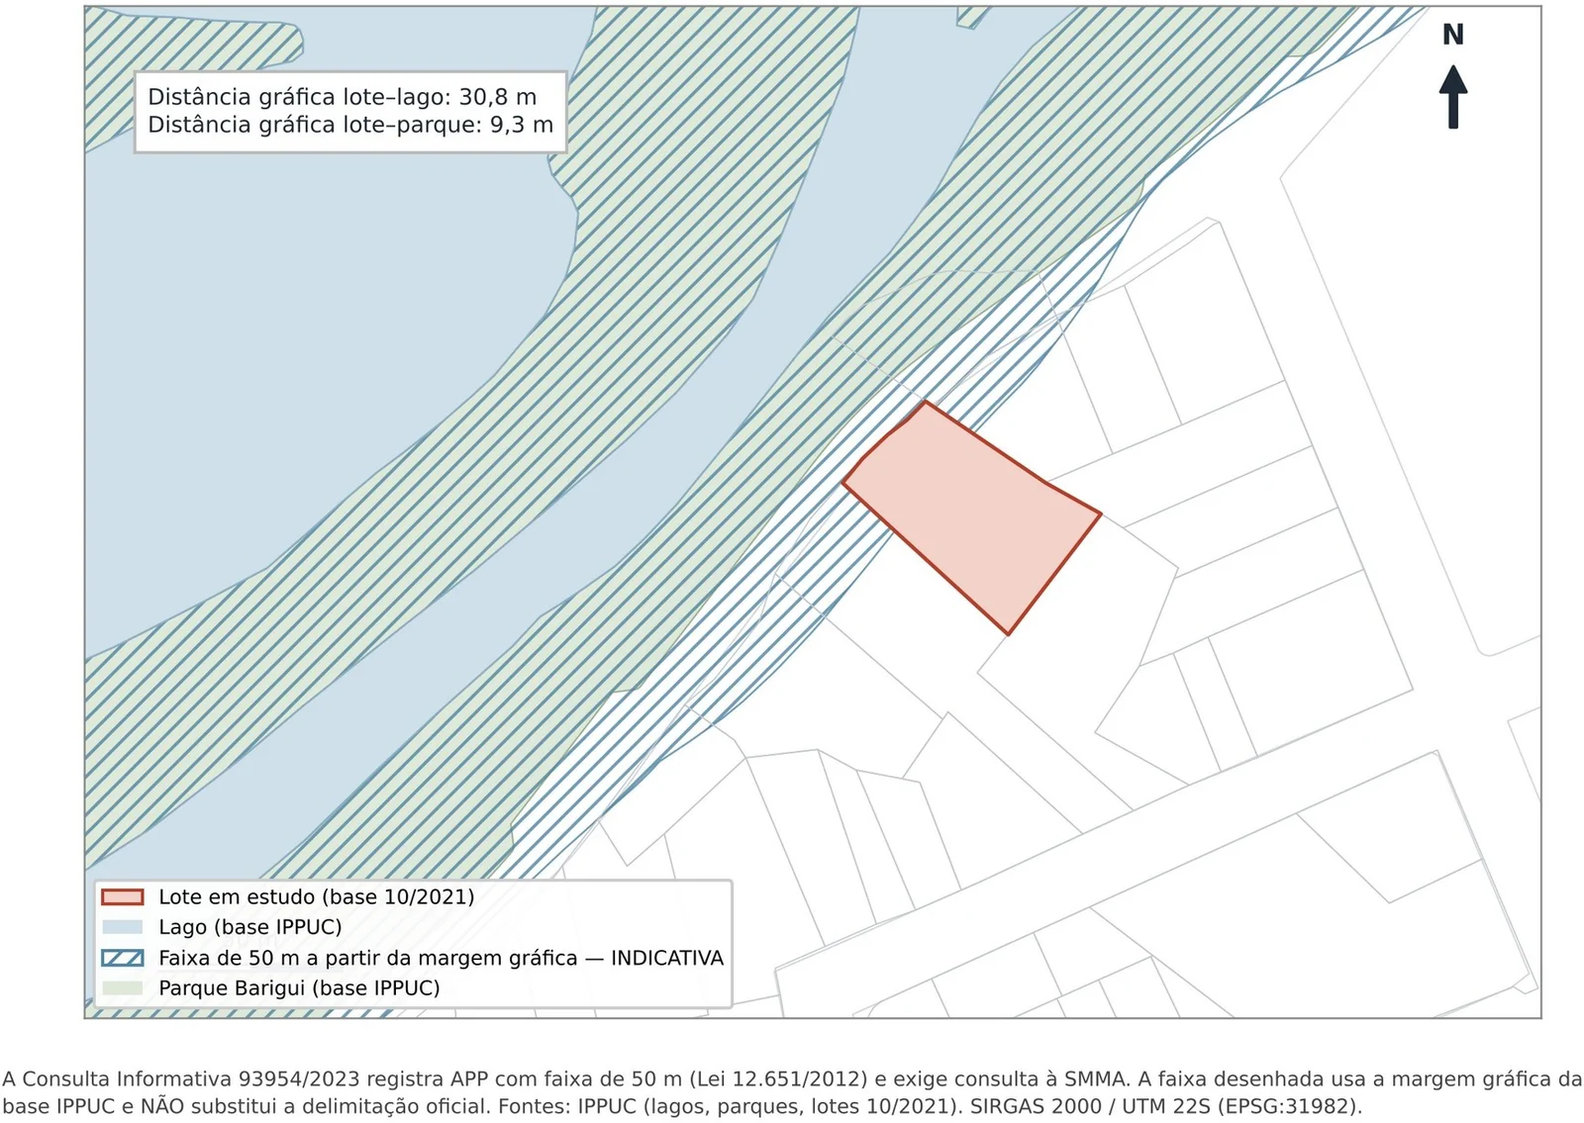
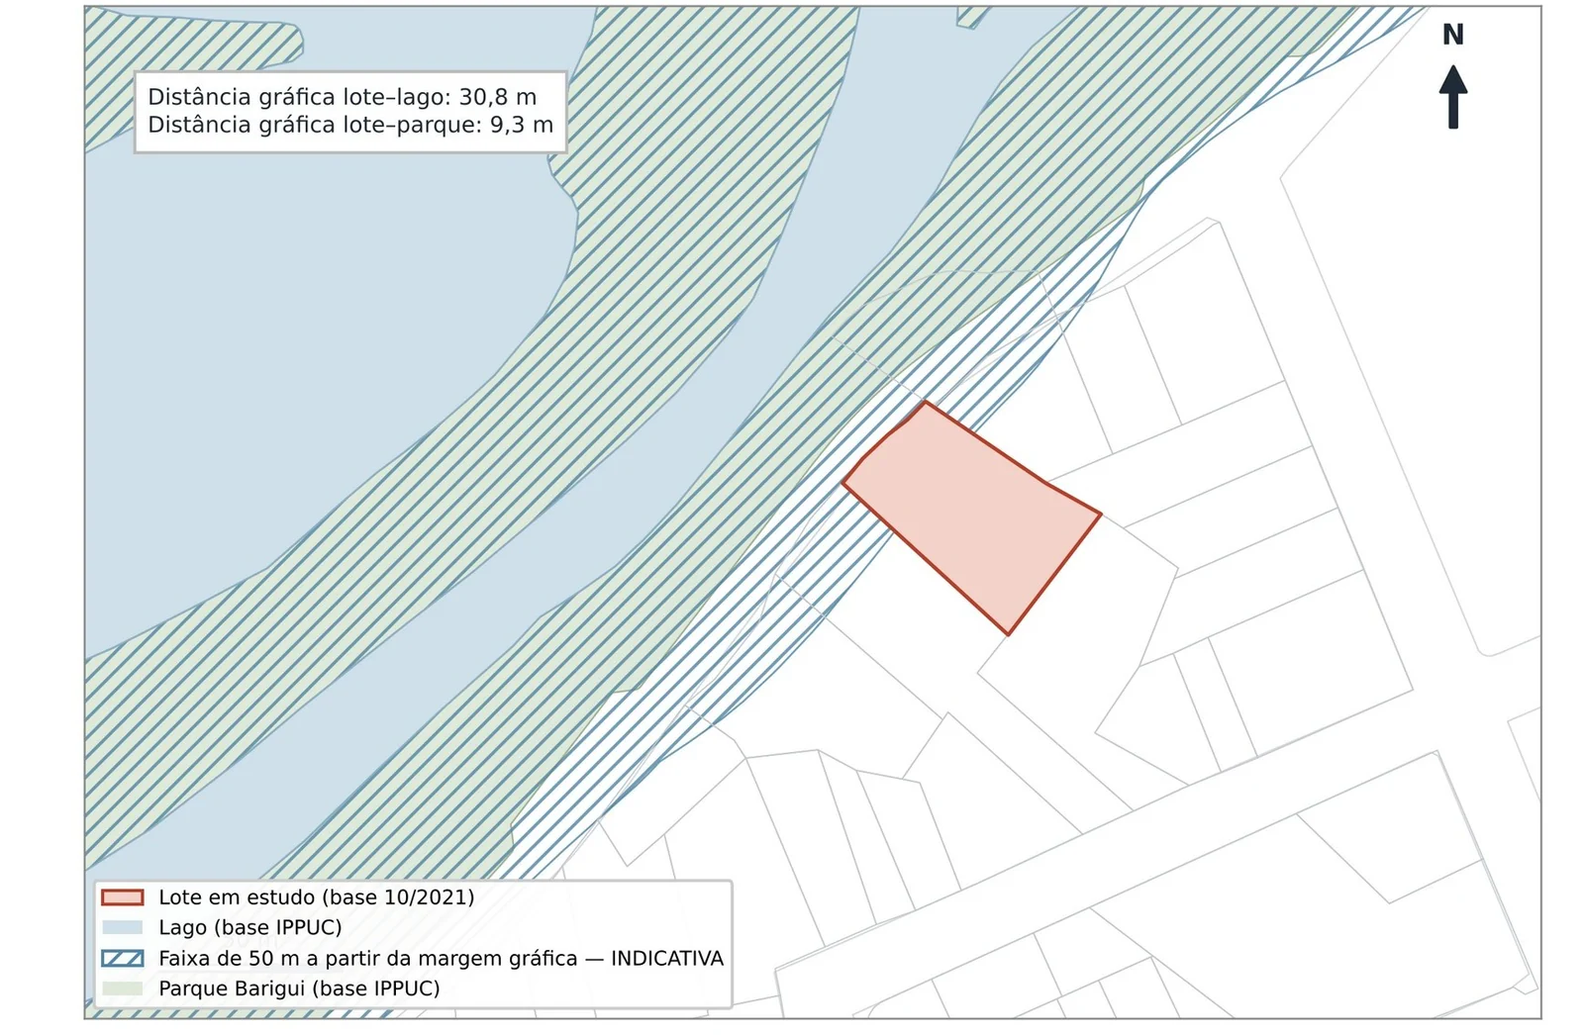
Recorta as figuras da galeria do Bigorrilho como no relatório

diff --git a/en/projects/bigorrilho/index.html b/en/projects/bigorrilho/index.html
@@ -24,8 +24,8 @@
 <link rel="apple-touch-icon" href="../../../apple-touch-icon.png">
 <link rel="preload" href="../../../fonts/ibm-plex-sans-400-normal-latin.woff2" as="font" type="font/woff2" crossorigin><link rel="preload" href="../../../fonts/source-serif-4-500-650-normal-latin.woff2" as="font" type="font/woff2" crossorigin>
 <link rel="stylesheet" href="../../../fonts/fonts.css?v=b6746c271c">
-<link rel="stylesheet" href="../../../css/estilo.css?v=b86e0abcba">
-<script src="../../../js/site.js?v=65b9d81dab" defer></script>
+<link rel="stylesheet" href="../../../css/estilo.css?v=d11fa2a440">
+<script src="../../../js/site.js?v=058e7f3ae5" defer></script>
 
 </head>
 <body id="topo" class="pg-projeto">
@@ -67,7 +67,7 @@
 <section class="secao" id="maps" aria-labelledby="maps-t"><div class="wrap">
 <h2 id="maps-t">Maps &amp; charts</h2>
 <p class="secao__intro">Click the image to zoom in; drag or scroll to move&nbsp;around.</p>
-<div class="galeria"><figure class="fig"><a class="fig__link" href="../../../img/projetos/bigorrilho/reconstrucao-cartografica.webp" data-galeria="projeto" data-w="1770" data-h="1584"><img src="../../../img/projetos/bigorrilho/reconstrucao-cartografica-960.webp" srcset="../../../img/projetos/bigorrilho/reconstrucao-cartografica-960.webp 960w, ../../../img/projetos/bigorrilho/reconstrucao-cartografica-1600.webp 1600w, ../../../img/projetos/bigorrilho/reconstrucao-cartografica.webp 1770w" sizes="(min-width: 900px) 560px, 100vw" width="1770" height="1584" alt="Figure 7 — Graphic reconstruction of the 1983 perimeter and of lot C5+C6 on the 2021 cadastral base; map text in Portuguese" loading="lazy" decoding="async"><span class="fig__zoom"><svg class="ico" viewBox="0 0 24 24" aria-hidden="true" focusable="false"><circle cx="10.5" cy="10.5" r="6" fill="none" stroke="currentColor" stroke-width="1.8"/><path d="m15 15 5 5M8 10.5h5M10.5 8v5" fill="none" stroke="currentColor" stroke-width="1.8" stroke-linecap="round"/></svg><span class="vh">Enlarge image</span></span></a><figcaption>Figure 7 — Graphic reconstruction of the 1983 perimeter and of lot C5+C6 on the 2021 cadastral base; map text in Portuguese <span class="fig__credito">IPPUC (2021); Curitiba City Hall, 1983 cadastral copy</span></figcaption></figure><figure class="fig"><a class="fig__link" href="../../../img/projetos/bigorrilho/proximidade-parque.webp" data-galeria="projeto" data-w="1736" data-h="1232"><img src="../../../img/projetos/bigorrilho/proximidade-parque-960.webp" srcset="../../../img/projetos/bigorrilho/proximidade-parque-960.webp 960w, ../../../img/projetos/bigorrilho/proximidade-parque-1600.webp 1600w, ../../../img/projetos/bigorrilho/proximidade-parque.webp 1736w" sizes="(min-width: 900px) 560px, 100vw" width="1736" height="1232" alt="Figure 8 — The lot&#x27;s proximity to the lake and to Barigui Park, with an indicative 50 m strip; map text in Portuguese" loading="lazy" decoding="async"><span class="fig__zoom"><svg class="ico" viewBox="0 0 24 24" aria-hidden="true" focusable="false"><circle cx="10.5" cy="10.5" r="6" fill="none" stroke="currentColor" stroke-width="1.8"/><path d="m15 15 5 5M8 10.5h5M10.5 8v5" fill="none" stroke="currentColor" stroke-width="1.8" stroke-linecap="round"/></svg><span class="vh">Enlarge image</span></span></a><figcaption>Figure 8 — The lot&#x27;s proximity to the lake and to Barigui Park, with an indicative 50 m strip; map text in Portuguese <span class="fig__credito">IPPUC (2021)</span></figcaption></figure></div>
+<div class="galeria"><figure class="fig"><a class="fig__link" href="../../../img/projetos/bigorrilho/reconstrucao-cartografica.webp" data-galeria="projeto" data-w="1596" data-h="1495"><img src="../../../img/projetos/bigorrilho/reconstrucao-cartografica-960.webp" srcset="../../../img/projetos/bigorrilho/reconstrucao-cartografica-960.webp 960w, ../../../img/projetos/bigorrilho/reconstrucao-cartografica.webp 1596w" sizes="(min-width: 900px) 560px, 100vw" width="1596" height="1495" alt="Figure 7 — Graphic reconstruction of the 1983 perimeter and of lot C5+C6 on the 2021 cadastral base; map text in Portuguese" loading="lazy" decoding="async"><span class="fig__zoom"><svg class="ico" viewBox="0 0 24 24" aria-hidden="true" focusable="false"><circle cx="10.5" cy="10.5" r="6" fill="none" stroke="currentColor" stroke-width="1.8"/><path d="m15 15 5 5M8 10.5h5M10.5 8v5" fill="none" stroke="currentColor" stroke-width="1.8" stroke-linecap="round"/></svg><span class="vh">Enlarge image</span></span></a><figcaption>Figure 7 — Graphic reconstruction of the 1983 perimeter and of lot C5+C6 on the 2021 cadastral base; map text in Portuguese <span class="fig__credito">IPPUC (2021); Curitiba City Hall, 1983 cadastral copy</span></figcaption></figure><figure class="fig"><a class="fig__link" href="../../../img/projetos/bigorrilho/proximidade-parque.webp" data-galeria="projeto" data-w="1736" data-h="1135"><img src="../../../img/projetos/bigorrilho/proximidade-parque-960.webp" srcset="../../../img/projetos/bigorrilho/proximidade-parque-960.webp 960w, ../../../img/projetos/bigorrilho/proximidade-parque-1600.webp 1600w, ../../../img/projetos/bigorrilho/proximidade-parque.webp 1736w" sizes="(min-width: 900px) 560px, 100vw" width="1736" height="1135" alt="Figure 8 — The lot&#x27;s proximity to the lake and to Barigui Park, with an indicative 50 m strip; map text in Portuguese" loading="lazy" decoding="async"><span class="fig__zoom"><svg class="ico" viewBox="0 0 24 24" aria-hidden="true" focusable="false"><circle cx="10.5" cy="10.5" r="6" fill="none" stroke="currentColor" stroke-width="1.8"/><path d="m15 15 5 5M8 10.5h5M10.5 8v5" fill="none" stroke="currentColor" stroke-width="1.8" stroke-linecap="round"/></svg><span class="vh">Enlarge image</span></span></a><figcaption>Figure 8 — The lot&#x27;s proximity to the lake and to Barigui Park, with an indicative 50 m strip; map text in Portuguese <span class="fig__credito">IPPUC (2021)</span></figcaption></figure></div>
 <p class="galeria__nota">Explore additional maps, charts, and results in the full report available at the end of this&nbsp;page.</p>
 </div></section>
 <section class="secao secao--clara" id="materials" aria-labelledby="materials-t"><div class="wrap"><h2 id="materials-t">Full materials</h2><div class="mats"><div class="mat"><h3><svg class="ico" viewBox="0 0 24 24" aria-hidden="true" focusable="false"><path d="M6.5 3.5h7l4 4v13h-11z" fill="none" stroke="currentColor" stroke-width="1.6" stroke-linejoin="round"/><path d="M13.5 3.5v4h4M9 13h6M9 16.5h6" fill="none" stroke="currentColor" stroke-width="1.6"/></svg>Full report (PDF, Portuguese)</h3><p>Document in&nbsp;Portuguese.</p><a class="btn btn--pri" href="../../../pdf/analise-historico-cadastral-bigorrilho.pdf" target="_blank" rel="noopener"><span>Full report (PDF, Portuguese)</span><span class="vh"> (Opens in a new tab)</span></a></div><div class="mat"><h3><svg class="ico" viewBox="0 0 24 24" aria-hidden="true" focusable="false"><path d="M12 3.5 20 8l-8 4.5L4 8z M4 12l8 4.5 8-4.5M4 16l8 4.5 8-4.5" fill="none" stroke="currentColor" stroke-width="1.6" stroke-linejoin="round"/></svg>Code and data</h3><p>The study draws on cadastral documents for a private property. To protect privacy, the evidence matrix, the GeoPackage with the historical geometry and the scripts are not published; the full report sets out the calculations and the&nbsp;method.</p></div></div></div></section>

diff --git a/projetos/bigorrilho/index.html b/projetos/bigorrilho/index.html
@@ -24,8 +24,8 @@
 <link rel="apple-touch-icon" href="../../apple-touch-icon.png">
 <link rel="preload" href="../../fonts/ibm-plex-sans-400-normal-latin.woff2" as="font" type="font/woff2" crossorigin><link rel="preload" href="../../fonts/source-serif-4-500-650-normal-latin.woff2" as="font" type="font/woff2" crossorigin>
 <link rel="stylesheet" href="../../fonts/fonts.css?v=b6746c271c">
-<link rel="stylesheet" href="../../css/estilo.css?v=b86e0abcba">
-<script src="../../js/site.js?v=65b9d81dab" defer></script>
+<link rel="stylesheet" href="../../css/estilo.css?v=d11fa2a440">
+<script src="../../js/site.js?v=058e7f3ae5" defer></script>
 
 </head>
 <body id="topo" class="pg-projeto">
@@ -67,7 +67,7 @@
 <section class="secao" id="mapas" aria-labelledby="mapas-t"><div class="wrap">
 <h2 id="mapas-t">Mapas e gráficos</h2>
 <p class="secao__intro">Clique na imagem para aproximar; arraste ou role para&nbsp;navegar.</p>
-<div class="galeria"><figure class="fig"><a class="fig__link" href="../../img/projetos/bigorrilho/reconstrucao-cartografica.webp" data-galeria="projeto" data-w="1770" data-h="1584"><img src="../../img/projetos/bigorrilho/reconstrucao-cartografica-960.webp" srcset="../../img/projetos/bigorrilho/reconstrucao-cartografica-960.webp 960w, ../../img/projetos/bigorrilho/reconstrucao-cartografica-1600.webp 1600w, ../../img/projetos/bigorrilho/reconstrucao-cartografica.webp 1770w" sizes="(min-width: 900px) 560px, 100vw" width="1770" height="1584" alt="Figura 7 — Reconstrução gráfica do perímetro de 1983 e do lote C5+C6 sobre a base cadastral de 2021" loading="lazy" decoding="async"><span class="fig__zoom"><svg class="ico" viewBox="0 0 24 24" aria-hidden="true" focusable="false"><circle cx="10.5" cy="10.5" r="6" fill="none" stroke="currentColor" stroke-width="1.8"/><path d="m15 15 5 5M8 10.5h5M10.5 8v5" fill="none" stroke="currentColor" stroke-width="1.8" stroke-linecap="round"/></svg><span class="vh">Ampliar imagem</span></span></a><figcaption>Figura 7 — Reconstrução gráfica do perímetro de 1983 e do lote C5+C6 sobre a base cadastral de 2021 <span class="fig__credito">IPPUC (2021); PMC, cópia cadastral de 1983</span></figcaption></figure><figure class="fig"><a class="fig__link" href="../../img/projetos/bigorrilho/proximidade-parque.webp" data-galeria="projeto" data-w="1736" data-h="1232"><img src="../../img/projetos/bigorrilho/proximidade-parque-960.webp" srcset="../../img/projetos/bigorrilho/proximidade-parque-960.webp 960w, ../../img/projetos/bigorrilho/proximidade-parque-1600.webp 1600w, ../../img/projetos/bigorrilho/proximidade-parque.webp 1736w" sizes="(min-width: 900px) 560px, 100vw" width="1736" height="1232" alt="Figura 8 — Proximidade do lote ao lago e ao Parque Barigui, com faixa indicativa de 50 m" loading="lazy" decoding="async"><span class="fig__zoom"><svg class="ico" viewBox="0 0 24 24" aria-hidden="true" focusable="false"><circle cx="10.5" cy="10.5" r="6" fill="none" stroke="currentColor" stroke-width="1.8"/><path d="m15 15 5 5M8 10.5h5M10.5 8v5" fill="none" stroke="currentColor" stroke-width="1.8" stroke-linecap="round"/></svg><span class="vh">Ampliar imagem</span></span></a><figcaption>Figura 8 — Proximidade do lote ao lago e ao Parque Barigui, com faixa indicativa de 50 m <span class="fig__credito">IPPUC (2021)</span></figcaption></figure></div>
+<div class="galeria"><figure class="fig"><a class="fig__link" href="../../img/projetos/bigorrilho/reconstrucao-cartografica.webp" data-galeria="projeto" data-w="1596" data-h="1495"><img src="../../img/projetos/bigorrilho/reconstrucao-cartografica-960.webp" srcset="../../img/projetos/bigorrilho/reconstrucao-cartografica-960.webp 960w, ../../img/projetos/bigorrilho/reconstrucao-cartografica.webp 1596w" sizes="(min-width: 900px) 560px, 100vw" width="1596" height="1495" alt="Figura 7 — Reconstrução gráfica do perímetro de 1983 e do lote C5+C6 sobre a base cadastral de 2021" loading="lazy" decoding="async"><span class="fig__zoom"><svg class="ico" viewBox="0 0 24 24" aria-hidden="true" focusable="false"><circle cx="10.5" cy="10.5" r="6" fill="none" stroke="currentColor" stroke-width="1.8"/><path d="m15 15 5 5M8 10.5h5M10.5 8v5" fill="none" stroke="currentColor" stroke-width="1.8" stroke-linecap="round"/></svg><span class="vh">Ampliar imagem</span></span></a><figcaption>Figura 7 — Reconstrução gráfica do perímetro de 1983 e do lote C5+C6 sobre a base cadastral de 2021 <span class="fig__credito">IPPUC (2021); PMC, cópia cadastral de 1983</span></figcaption></figure><figure class="fig"><a class="fig__link" href="../../img/projetos/bigorrilho/proximidade-parque.webp" data-galeria="projeto" data-w="1736" data-h="1135"><img src="../../img/projetos/bigorrilho/proximidade-parque-960.webp" srcset="../../img/projetos/bigorrilho/proximidade-parque-960.webp 960w, ../../img/projetos/bigorrilho/proximidade-parque-1600.webp 1600w, ../../img/projetos/bigorrilho/proximidade-parque.webp 1736w" sizes="(min-width: 900px) 560px, 100vw" width="1736" height="1135" alt="Figura 8 — Proximidade do lote ao lago e ao Parque Barigui, com faixa indicativa de 50 m" loading="lazy" decoding="async"><span class="fig__zoom"><svg class="ico" viewBox="0 0 24 24" aria-hidden="true" focusable="false"><circle cx="10.5" cy="10.5" r="6" fill="none" stroke="currentColor" stroke-width="1.8"/><path d="m15 15 5 5M8 10.5h5M10.5 8v5" fill="none" stroke="currentColor" stroke-width="1.8" stroke-linecap="round"/></svg><span class="vh">Ampliar imagem</span></span></a><figcaption>Figura 8 — Proximidade do lote ao lago e ao Parque Barigui, com faixa indicativa de 50 m <span class="fig__credito">IPPUC (2021)</span></figcaption></figure></div>
 <p class="galeria__nota">Consulte os demais mapas, gráficos e resultados no relatório completo disponível ao final desta&nbsp;página.</p>
 </div></section>
 <section class="secao secao--clara" id="materiais" aria-labelledby="materiais-t"><div class="wrap"><h2 id="materiais-t">Materiais completos</h2><div class="mats"><div class="mat"><h3><svg class="ico" viewBox="0 0 24 24" aria-hidden="true" focusable="false"><path d="M6.5 3.5h7l4 4v13h-11z" fill="none" stroke="currentColor" stroke-width="1.6" stroke-linejoin="round"/><path d="M13.5 3.5v4h4M9 13h6M9 16.5h6" fill="none" stroke="currentColor" stroke-width="1.6"/></svg>Relatório completo (PDF)</h3><p>Documento em&nbsp;português.</p><a class="btn btn--pri" href="../../pdf/analise-historico-cadastral-bigorrilho.pdf" target="_blank" rel="noopener"><span>Relatório completo (PDF)</span><span class="vh"> (Abre em nova aba)</span></a></div><div class="mat"><h3><svg class="ico" viewBox="0 0 24 24" aria-hidden="true" focusable="false"><path d="M12 3.5 20 8l-8 4.5L4 8z M4 12l8 4.5 8-4.5M4 16l8 4.5 8-4.5" fill="none" stroke="currentColor" stroke-width="1.6" stroke-linejoin="round"/></svg>Código e dados</h3><p>O estudo se baseia em documentos cadastrais de um imóvel particular. Para preservar a privacidade, a matriz de evidências, o GeoPackage com a geometria histórica e os scripts não são publicados; o relatório completo apresenta os cálculos e o&nbsp;método.</p></div></div></div></section>

diff --git a/index.html b/index.html
@@ -24,8 +24,8 @@
 <link rel="apple-touch-icon" href="./apple-touch-icon.png">
 <link rel="preload" href="./fonts/ibm-plex-sans-400-normal-latin.woff2" as="font" type="font/woff2" crossorigin><link rel="preload" href="./fonts/source-serif-4-500-650-normal-latin.woff2" as="font" type="font/woff2" crossorigin>
 <link rel="stylesheet" href="./fonts/fonts.css?v=b6746c271c">
-<link rel="stylesheet" href="./css/estilo.css?v=b86e0abcba">
-<script src="./js/site.js?v=65b9d81dab" defer></script>
+<link rel="stylesheet" href="./css/estilo.css?v=d11fa2a440">
+<script src="./js/site.js?v=058e7f3ae5" defer></script>
 <script type="application/ld+json">{"@context": "https://schema.org", "@type": "Person", "name": "Gabriel Barboza Lourenço", "jobTitle": "Analista de Dados Urbanos e Geoprocessamento", "url": "https://gabrielloubarboza.github.io/", "email": "mailto:gabrielb.lourenco3@gmail.com", "alumniOf": {"@type": "CollegeOrUniversity", "name": "Universidade Tecnológica Federal do Paraná"}, "sameAs": ["https://www.linkedin.com/in/gabriel-barboza-lourenco", "https://github.com/gabrielloubarboza", "https://www.instagram.com/gabbl.urb/", "http://lattes.cnpq.br/4614741892452502"]}</script>
 </head>
 <body id="topo" class="pg-inicio">

diff --git a/en/index.html b/en/index.html
@@ -24,8 +24,8 @@
 <link rel="apple-touch-icon" href="../apple-touch-icon.png">
 <link rel="preload" href="../fonts/ibm-plex-sans-400-normal-latin.woff2" as="font" type="font/woff2" crossorigin><link rel="preload" href="../fonts/source-serif-4-500-650-normal-latin.woff2" as="font" type="font/woff2" crossorigin>
 <link rel="stylesheet" href="../fonts/fonts.css?v=b6746c271c">
-<link rel="stylesheet" href="../css/estilo.css?v=b86e0abcba">
-<script src="../js/site.js?v=65b9d81dab" defer></script>
+<link rel="stylesheet" href="../css/estilo.css?v=d11fa2a440">
+<script src="../js/site.js?v=058e7f3ae5" defer></script>
 <script type="application/ld+json">{"@context": "https://schema.org", "@type": "Person", "name": "Gabriel Barboza Lourenço", "jobTitle": "Urban Data & Geospatial Analyst", "url": "https://gabrielloubarboza.github.io/en/", "email": "mailto:gabrielb.lourenco3@gmail.com", "alumniOf": {"@type": "CollegeOrUniversity", "name": "Universidade Tecnológica Federal do Paraná"}, "sameAs": ["https://www.linkedin.com/in/gabriel-barboza-lourenco", "https://github.com/gabrielloubarboza", "https://www.instagram.com/gabbl.urb/", "http://lattes.cnpq.br/4614741892452502"]}</script>
 </head>
 <body id="topo" class="pg-inicio">

diff --git a/404.html b/404.html
@@ -3,7 +3,7 @@
 <head><meta charset="utf-8"><meta name="viewport" content="width=device-width, initial-scale=1">
 <title>Página não encontrada · Gabriel Barboza Lourenço</title><meta name="robots" content="noindex">
 <link rel="icon" href="/favicon.svg" type="image/svg+xml">
-<link rel="stylesheet" href="/fonts/fonts.css?v=b6746c271c"><link rel="stylesheet" href="/css/estilo.css?v=b86e0abcba"></head>
+<link rel="stylesheet" href="/fonts/fonts.css?v=b6746c271c"><link rel="stylesheet" href="/css/estilo.css?v=d11fa2a440"></head>
 <body class="pg-404"><main class="wrap erro">
 <p class="rotulo">404</p><h1>Página não encontrada</h1><p>O endereço pode ter mudado ou não existe.</p>
 <p><a class="btn btn--pri" href="/">Ir para a página inicial</a></p>

diff --git a/en/projects/collaborative/index.html b/en/projects/collaborative/index.html
@@ -24,8 +24,8 @@
 <link rel="apple-touch-icon" href="../../../apple-touch-icon.png">
 <link rel="preload" href="../../../fonts/ibm-plex-sans-400-normal-latin.woff2" as="font" type="font/woff2" crossorigin><link rel="preload" href="../../../fonts/source-serif-4-500-650-normal-latin.woff2" as="font" type="font/woff2" crossorigin>
 <link rel="stylesheet" href="../../../fonts/fonts.css?v=b6746c271c">
-<link rel="stylesheet" href="../../../css/estilo.css?v=b86e0abcba">
-<script src="../../../js/site.js?v=65b9d81dab" defer></script>
+<link rel="stylesheet" href="../../../css/estilo.css?v=d11fa2a440">
+<script src="../../../js/site.js?v=058e7f3ae5" defer></script>
 
 </head>
 <body id="topo" class="pg-colaborativos">

diff --git a/en/projects/curitiba/index.html b/en/projects/curitiba/index.html
@@ -24,8 +24,8 @@
 <link rel="apple-touch-icon" href="../../../apple-touch-icon.png">
 <link rel="preload" href="../../../fonts/ibm-plex-sans-400-normal-latin.woff2" as="font" type="font/woff2" crossorigin><link rel="preload" href="../../../fonts/source-serif-4-500-650-normal-latin.woff2" as="font" type="font/woff2" crossorigin>
 <link rel="stylesheet" href="../../../fonts/fonts.css?v=b6746c271c">
-<link rel="stylesheet" href="../../../css/estilo.css?v=b86e0abcba">
-<script src="../../../js/site.js?v=65b9d81dab" defer></script>
+<link rel="stylesheet" href="../../../css/estilo.css?v=d11fa2a440">
+<script src="../../../js/site.js?v=058e7f3ae5" defer></script>
 
 </head>
 <body id="topo" class="pg-projeto">

diff --git a/en/projects/litoral-norte/index.html b/en/projects/litoral-norte/index.html
@@ -24,8 +24,8 @@
 <link rel="apple-touch-icon" href="../../../apple-touch-icon.png">
 <link rel="preload" href="../../../fonts/ibm-plex-sans-400-normal-latin.woff2" as="font" type="font/woff2" crossorigin><link rel="preload" href="../../../fonts/source-serif-4-500-650-normal-latin.woff2" as="font" type="font/woff2" crossorigin>
 <link rel="stylesheet" href="../../../fonts/fonts.css?v=b6746c271c">
-<link rel="stylesheet" href="../../../css/estilo.css?v=b86e0abcba">
-<script src="../../../js/site.js?v=65b9d81dab" defer></script>
+<link rel="stylesheet" href="../../../css/estilo.css?v=d11fa2a440">
+<script src="../../../js/site.js?v=058e7f3ae5" defer></script>
 
 </head>
 <body id="topo" class="pg-projeto">

diff --git a/en/projects/maresias/index.html b/en/projects/maresias/index.html
@@ -24,8 +24,8 @@
 <link rel="apple-touch-icon" href="../../../apple-touch-icon.png">
 <link rel="preload" href="../../../fonts/ibm-plex-sans-400-normal-latin.woff2" as="font" type="font/woff2" crossorigin><link rel="preload" href="../../../fonts/source-serif-4-500-650-normal-latin.woff2" as="font" type="font/woff2" crossorigin>
 <link rel="stylesheet" href="../../../fonts/fonts.css?v=b6746c271c">
-<link rel="stylesheet" href="../../../css/estilo.css?v=b86e0abcba">
-<script src="../../../js/site.js?v=65b9d81dab" defer></script>
+<link rel="stylesheet" href="../../../css/estilo.css?v=d11fa2a440">
+<script src="../../../js/site.js?v=058e7f3ae5" defer></script>
 
 </head>
 <body id="topo" class="pg-projeto">

diff --git a/en/projects/piracicaba/index.html b/en/projects/piracicaba/index.html
@@ -24,8 +24,8 @@
 <link rel="apple-touch-icon" href="../../../apple-touch-icon.png">
 <link rel="preload" href="../../../fonts/ibm-plex-sans-400-normal-latin.woff2" as="font" type="font/woff2" crossorigin><link rel="preload" href="../../../fonts/source-serif-4-500-650-normal-latin.woff2" as="font" type="font/woff2" crossorigin>
 <link rel="stylesheet" href="../../../fonts/fonts.css?v=b6746c271c">
-<link rel="stylesheet" href="../../../css/estilo.css?v=b86e0abcba">
-<script src="../../../js/site.js?v=65b9d81dab" defer></script>
+<link rel="stylesheet" href="../../../css/estilo.css?v=d11fa2a440">
+<script src="../../../js/site.js?v=058e7f3ae5" defer></script>
 
 </head>
 <body id="topo" class="pg-projeto">

diff --git a/en/projects/sevilha/index.html b/en/projects/sevilha/index.html
@@ -24,8 +24,8 @@
 <link rel="apple-touch-icon" href="../../../apple-touch-icon.png">
 <link rel="preload" href="../../../fonts/ibm-plex-sans-400-normal-latin.woff2" as="font" type="font/woff2" crossorigin><link rel="preload" href="../../../fonts/source-serif-4-500-650-normal-latin.woff2" as="font" type="font/woff2" crossorigin>
 <link rel="stylesheet" href="../../../fonts/fonts.css?v=b6746c271c">
-<link rel="stylesheet" href="../../../css/estilo.css?v=b86e0abcba">
-<script src="../../../js/site.js?v=65b9d81dab" defer></script>
+<link rel="stylesheet" href="../../../css/estilo.css?v=d11fa2a440">
+<script src="../../../js/site.js?v=058e7f3ae5" defer></script>
 
 </head>
 <body id="topo" class="pg-projeto">

diff --git a/projetos/colaborativos/index.html b/projetos/colaborativos/index.html
@@ -24,8 +24,8 @@
 <link rel="apple-touch-icon" href="../../apple-touch-icon.png">
 <link rel="preload" href="../../fonts/ibm-plex-sans-400-normal-latin.woff2" as="font" type="font/woff2" crossorigin><link rel="preload" href="../../fonts/source-serif-4-500-650-normal-latin.woff2" as="font" type="font/woff2" crossorigin>
 <link rel="stylesheet" href="../../fonts/fonts.css?v=b6746c271c">
-<link rel="stylesheet" href="../../css/estilo.css?v=b86e0abcba">
-<script src="../../js/site.js?v=65b9d81dab" defer></script>
+<link rel="stylesheet" href="../../css/estilo.css?v=d11fa2a440">
+<script src="../../js/site.js?v=058e7f3ae5" defer></script>
 
 </head>
 <body id="topo" class="pg-colaborativos">
